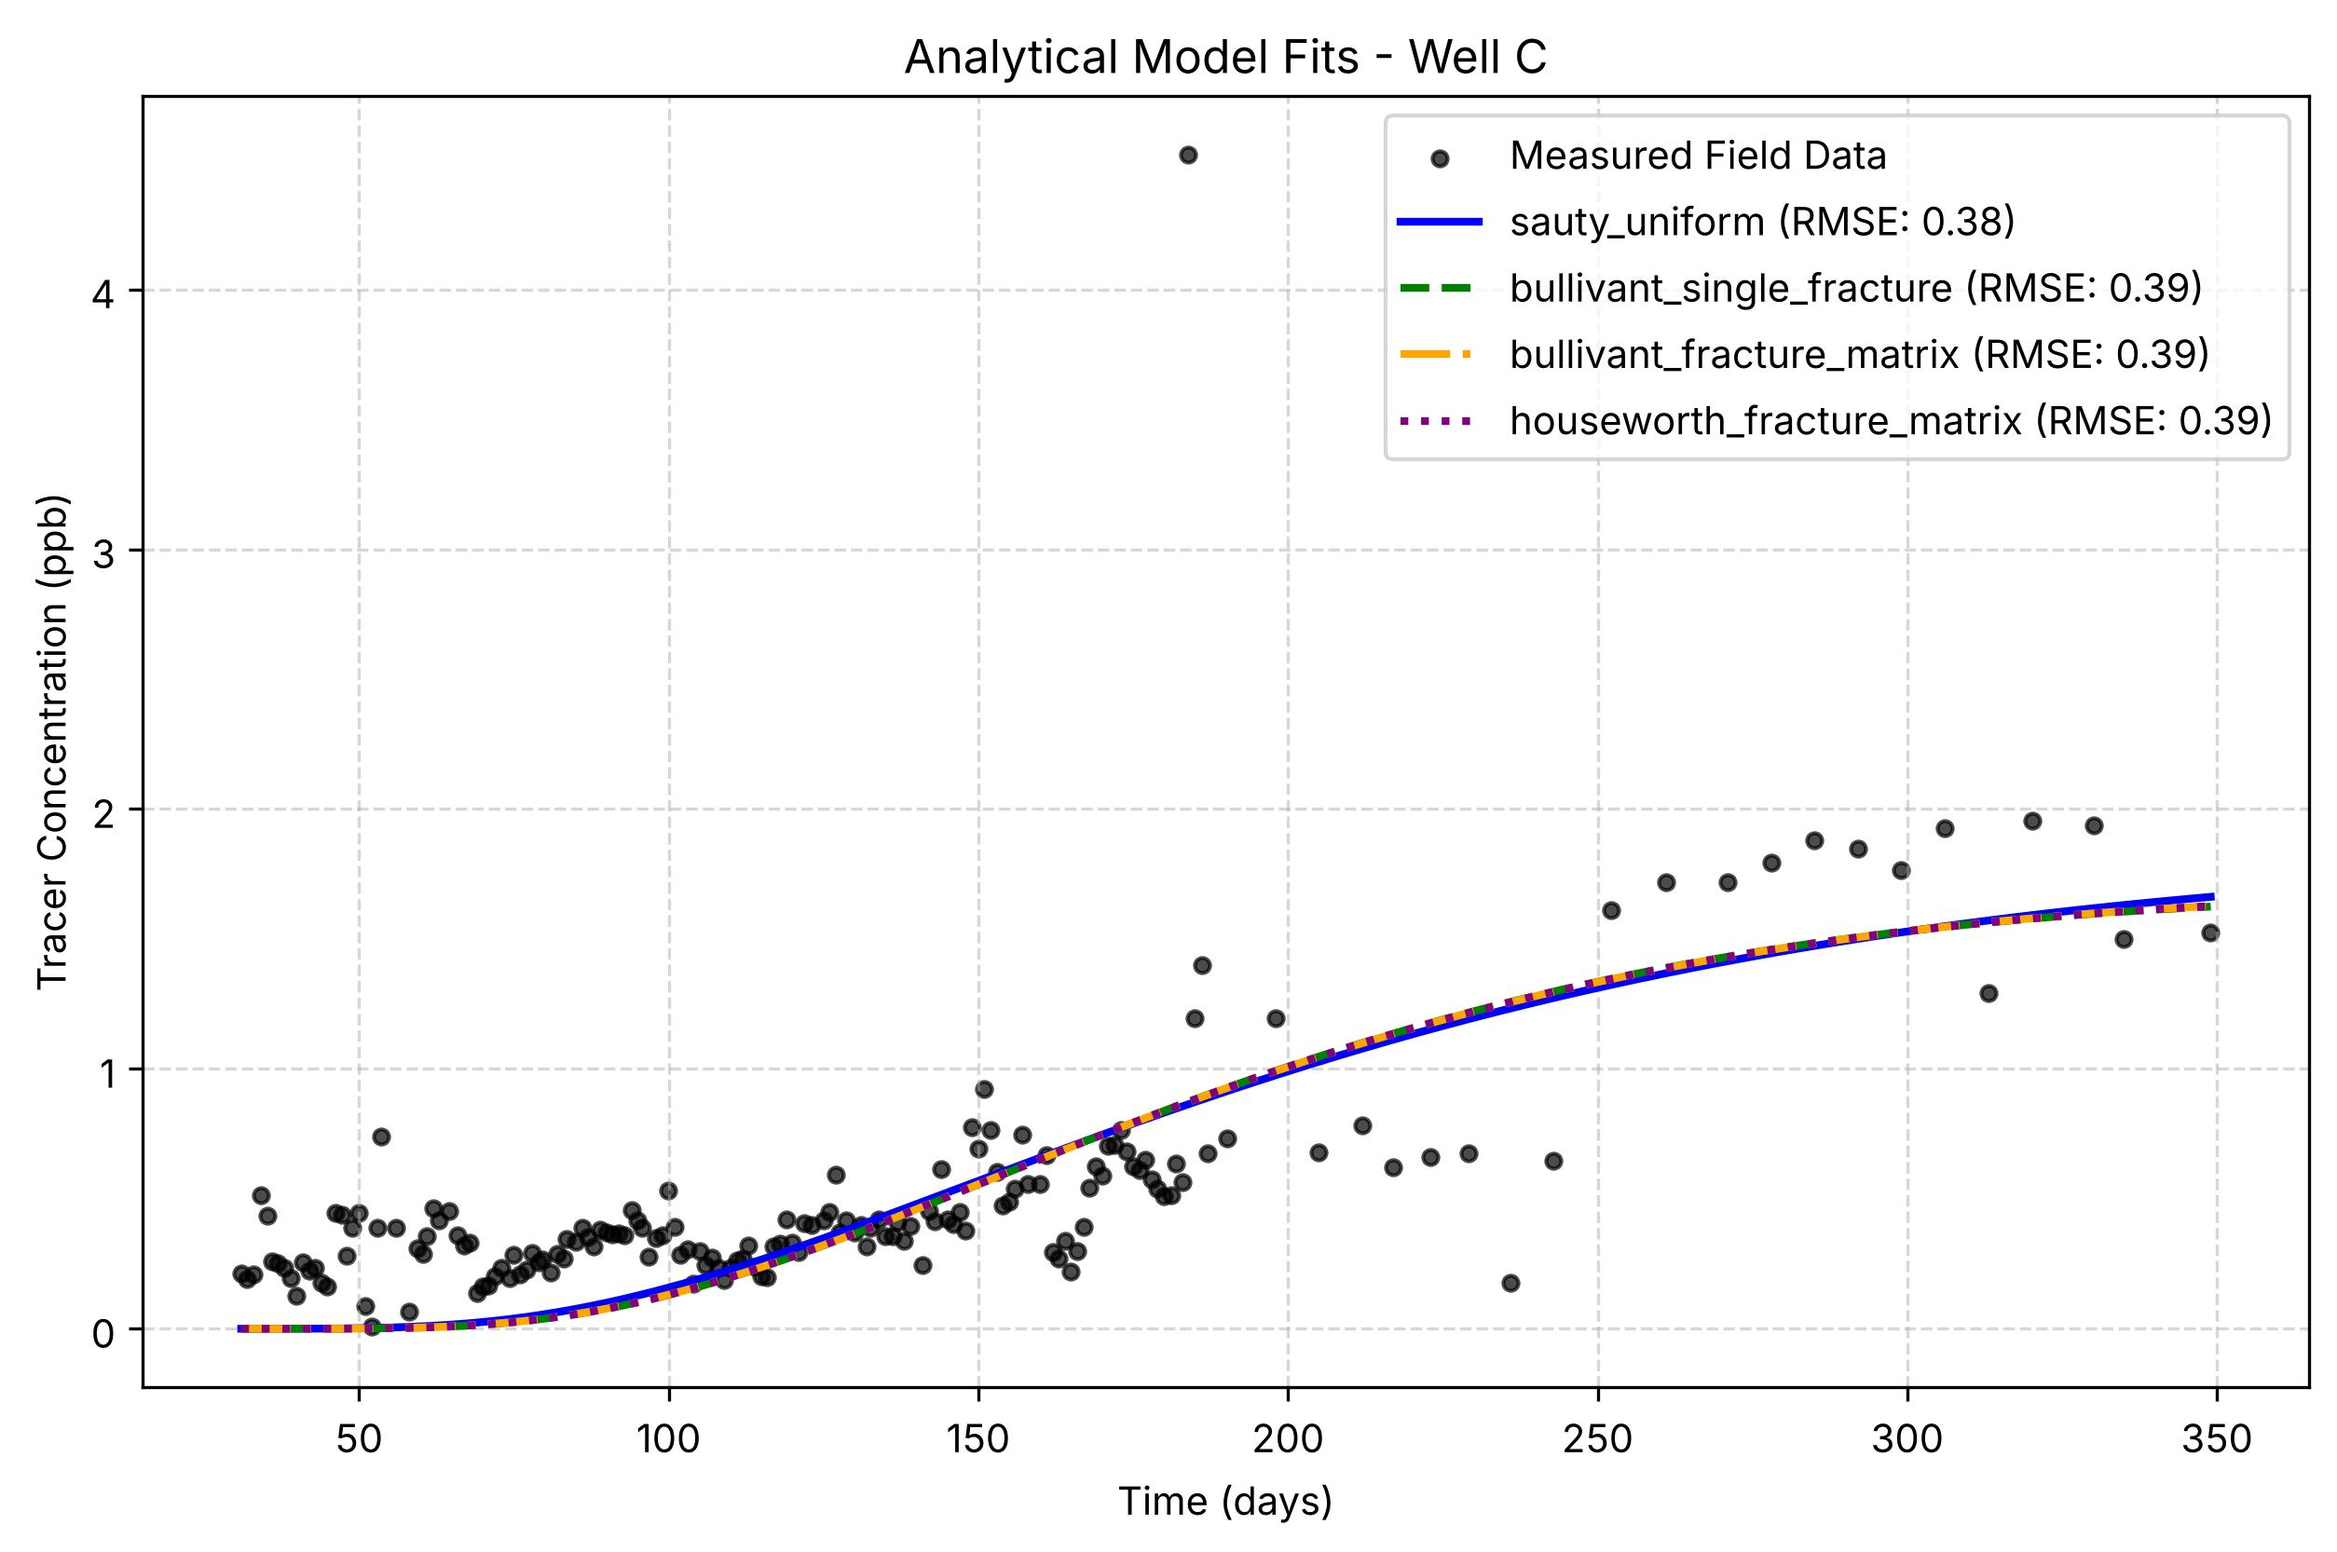
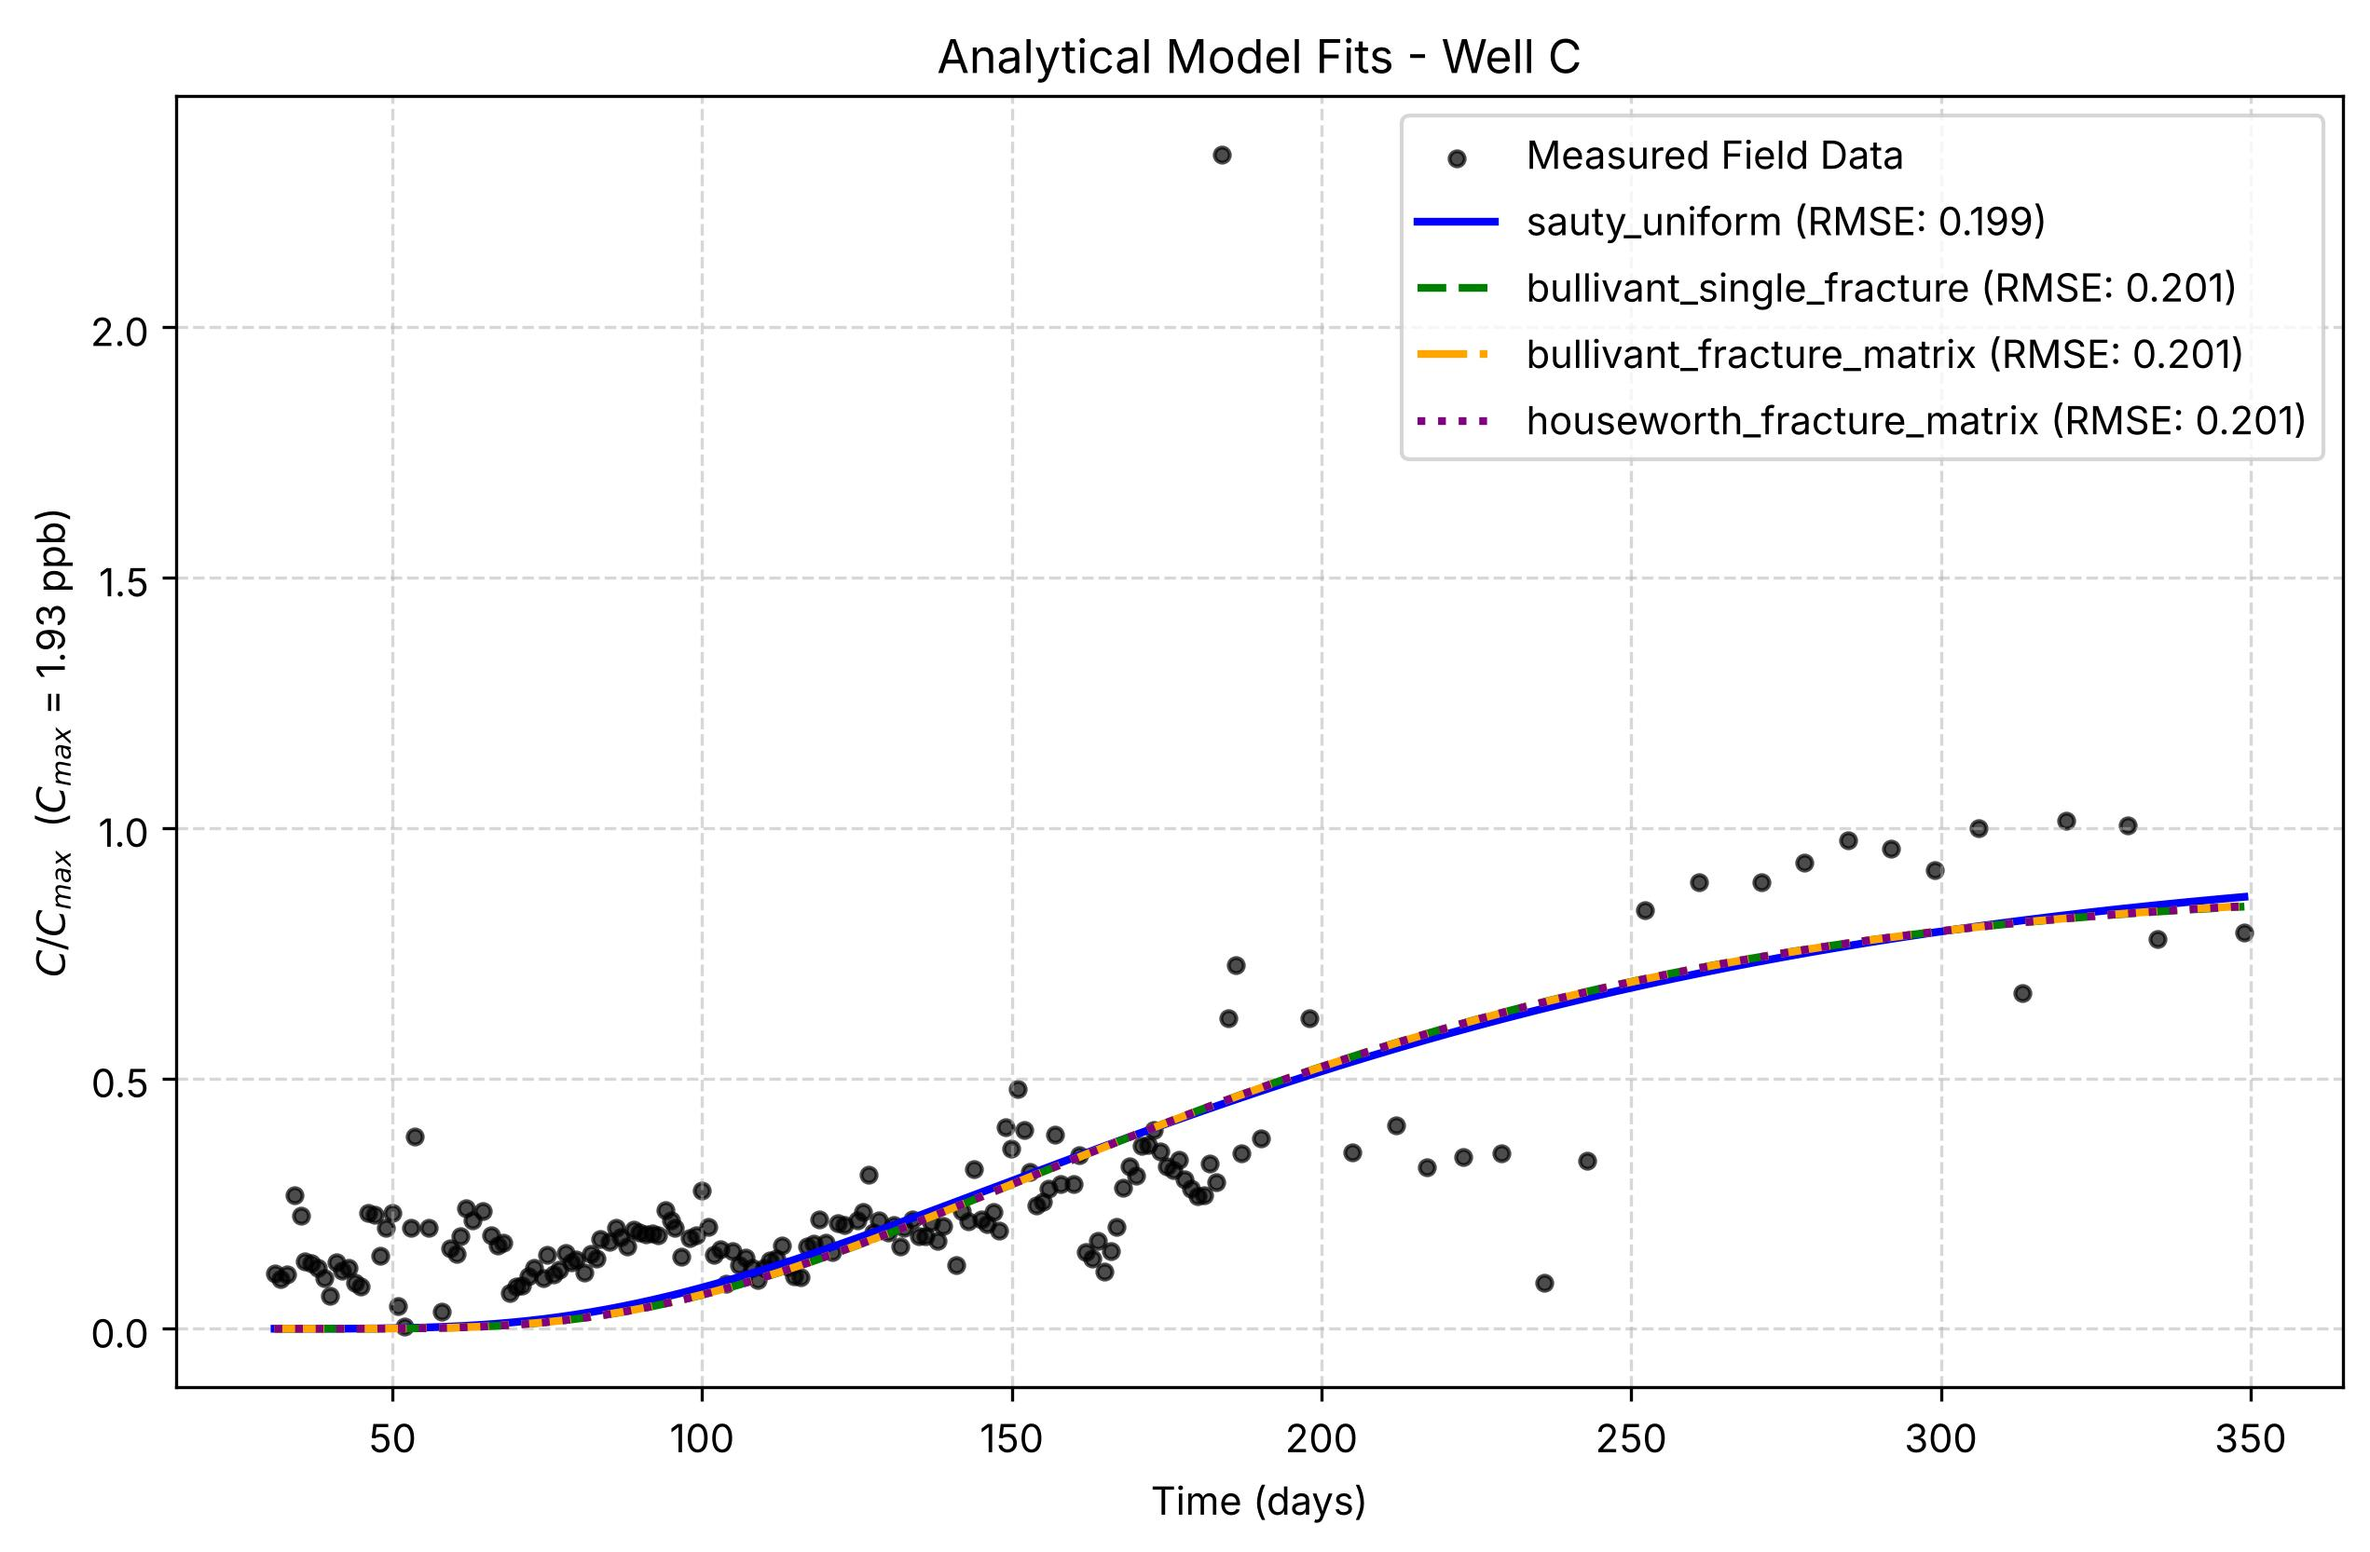
Plot fitted curves as C/C_max against time
Measurements and models are divided by the same C_max (running-median
peak of the measurements); legend RMSE is shown as a fraction of C_max.

Claude-Session: https://claude.ai/code/session_012rciNb3RLQHPSk3zMHuk9z

diff --git a/tracer_model.py b/tracer_model.py
@@ -130,7 +130,7 @@ def houseworth_fracture_matrix(t, t_a, beta, gamma, M):
 
 def robust_peak(t_obs, C_obs, window=5):
     """Time and value of the peak of a running median, so single outliers
-    do not set the initial guesses."""
+    do not set the initial guesses or the C_max used to normalize plots."""
     if len(C_obs) < window:
         i = np.argmax(C_obs)
         return t_obs[i], C_obs[i]
@@ -311,8 +311,18 @@ def plot_tracer_data(tracer_data):
 
 
 def plot_fitted_curves(t_obs, C_obs, fits, well):
+    """Plot measured and fitted curves as C/C_max against time.
+
+    Measurements and all models are divided by the same C_max (the
+    running-median peak of the measurements), so the fitted curves still
+    overlay the data and RMSE is shown as a fraction of C_max.
+    """
+    _, C_max = robust_peak(t_obs, C_obs)
+
     plt.figure(figsize=(10, 6))
-    plt.scatter(t_obs, C_obs, color="black", s=15, alpha=0.7, label="Measured Field Data")
+    plt.scatter(
+        t_obs, C_obs / C_max, color="black", s=15, alpha=0.7, label="Measured Field Data"
+    )
 
     # Smooth time grid for the analytical curves
     t_smooth = np.linspace(np.min(t_obs), np.max(t_obs), 500)
@@ -321,15 +331,15 @@ def plot_fitted_curves(t_obs, C_obs, fits, well):
         color, linestyle = MODEL_STYLES[fit["model"]]
         plt.plot(
             t_smooth,
-            fit["func"](t_smooth, *fit["params"].values()),
+            fit["func"](t_smooth, *fit["params"].values()) / C_max,
             color=color,
             linestyle=linestyle,
             linewidth=2,
-            label=f"{fit['model']} (RMSE: {fit['rmse']:.2f})",
+            label=f"{fit['model']} (RMSE: {fit['rmse'] / C_max:.3f})",
         )
 
     plt.xlabel("Time (days)")
-    plt.ylabel("Tracer Concentration (ppb)")
+    plt.ylabel(f"$C/C_{{max}}$  ($C_{{max}}$ = {C_max:.3g} ppb)")
     plt.title(f"Analytical Model Fits - Well {well.upper()}")
     plt.grid(True, linestyle="--", alpha=0.5)
     plt.legend()
